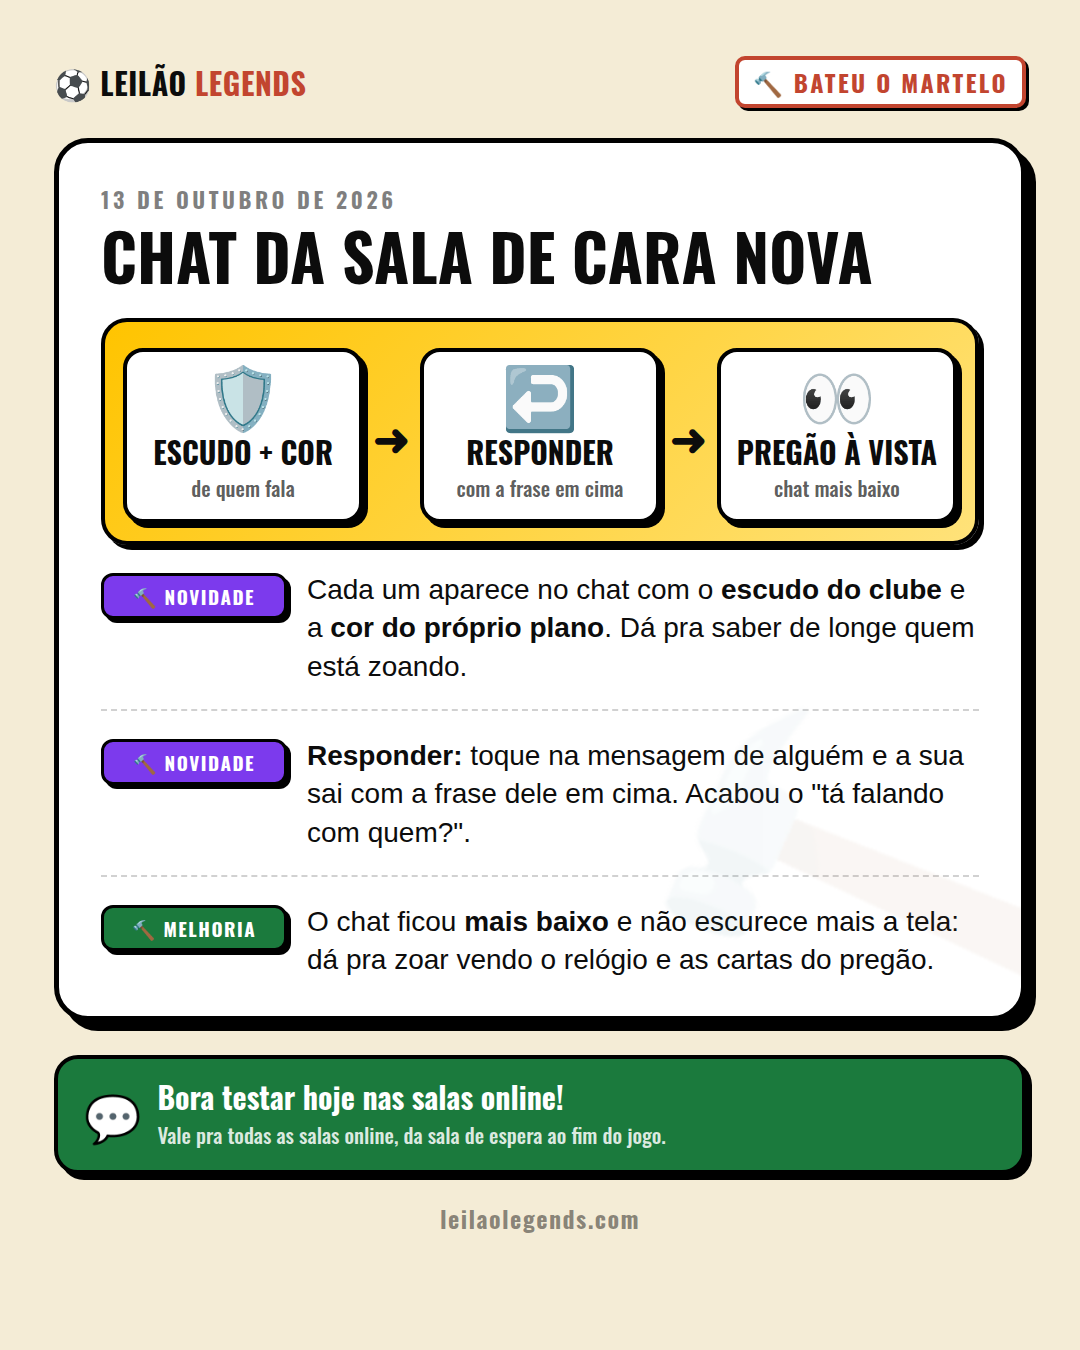
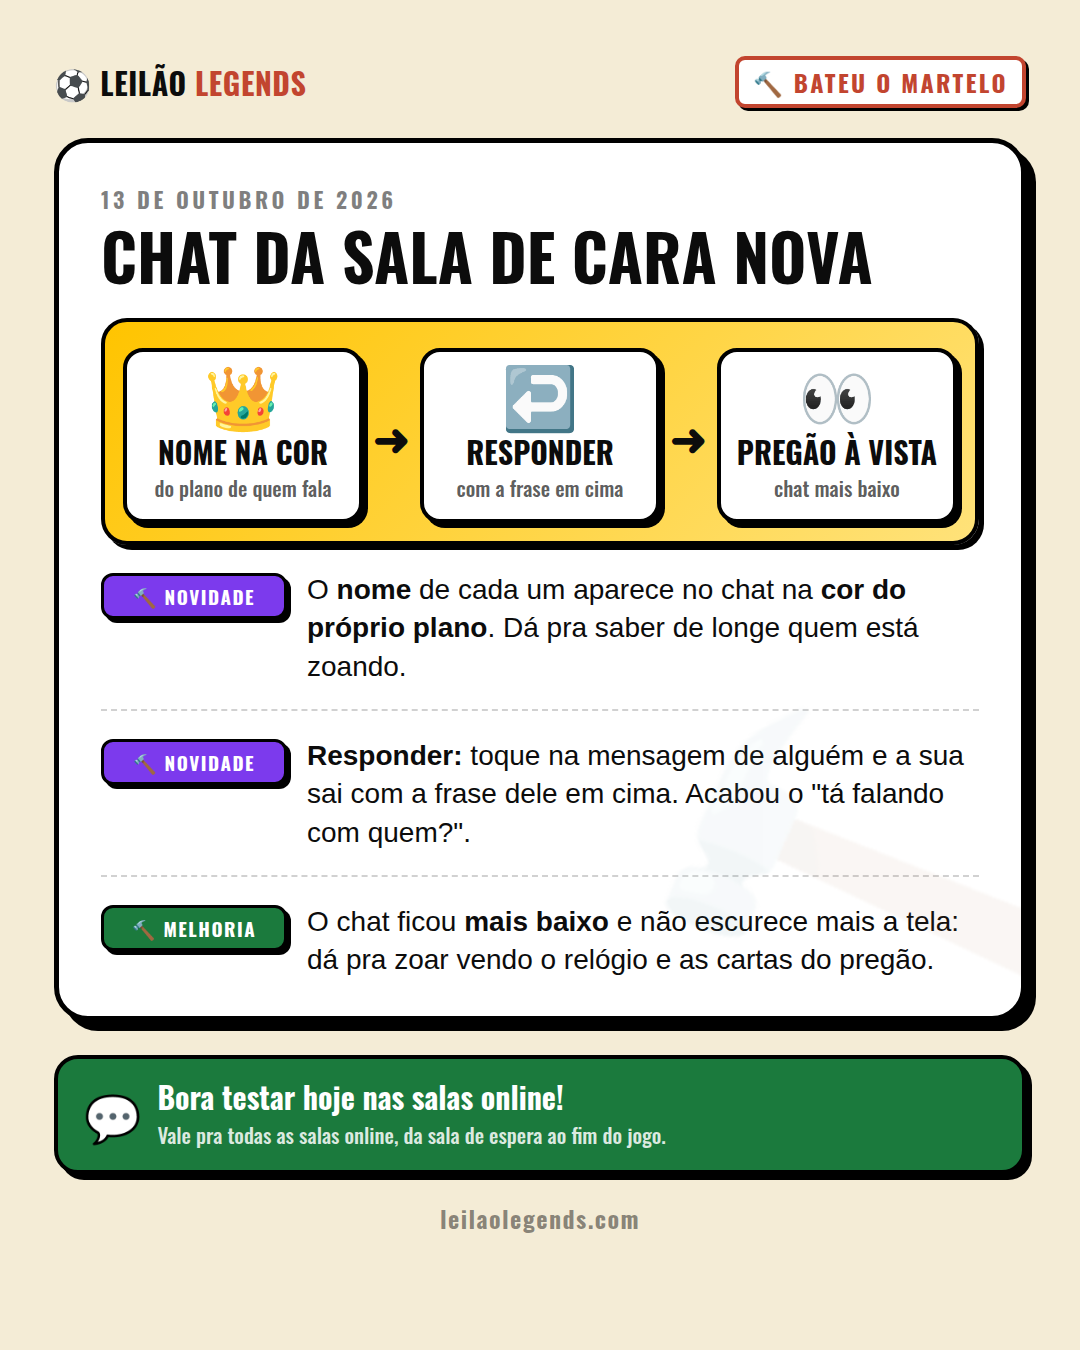
Chat da sala: tira o escudo, fica só o nome na cor do plano (pedido do Diego, menos informação)
Claude-Session: https://claude.ai/code/session_018Ap1zPCMVL9XeZJN3u93ZA

Changed region(s): [[0.275, 0.4044, 0.8861, 0.4978], [0.1222, 0.2489, 0.3056, 0.3733]]

diff --git a/src/escalacao/novidades.ts b/src/escalacao/novidades.ts
@@ -34,7 +34,7 @@ import { getLang } from './lang'
 
 // ⚠ SEMPRE em ordem: a mais NOVA em cima.
 export const NOVIDADES: Novidade[] = [
-  { data: '2026-10-13', emoji: '💬', titulo: 'Chat da sala de cara nova', texto: 'Cada um aparece com o escudo do clube e a cor do próprio plano. Toque na mensagem de alguém pra responder com a frase dele em cima. E o chat ficou mais baixo: dá pra zoar vendo o pregão (salas online).', en: { titulo: 'Room chat got a new look', texto: 'Everyone shows up with their club crest and their own plan color. Tap someone’s message to reply with it quoted on top. And the chat sits lower now: you can banter while watching the auction (online rooms).' } },
+  { data: '2026-10-13', emoji: '💬', titulo: 'Chat da sala de cara nova', texto: 'O nome de cada um aparece na cor do próprio plano. Toque na mensagem de alguém pra responder com a frase dele em cima. E o chat ficou mais baixo: dá pra zoar vendo o pregão (salas online).', en: { titulo: 'Room chat got a new look', texto: 'Everyone’s name shows in their own plan color. Tap someone’s message to reply with it quoted on top. And the chat sits lower now: you can banter while watching the auction (online rooms).' } },
   { data: '2026-10-13', emoji: '🏢', titulo: 'A SAF agora vira seu 2º clube', texto: 'Compra a SAF e, depois de 10 temporadas, assume o comando: ela vira o seu 2º clube jogável, com os títulos que já tinha (só pra apoiador). Dá pra emprestar e pegar jogador entre os seus dois clubes na virada da temporada, e cada clube paga metade do salário. Vender clube é risco: lucro máximo de 500 (Modo Carreira).', en: { titulo: 'Your SAF now becomes your 2nd club', texto: 'Buy the SAF and, after 10 seasons, take command: it becomes your playable 2nd club, keeping its titles (supporters only). You can loan players between your two clubs at the season turn, with each club paying half the wage. Selling a club is a risk: profit is capped at 500 (Career Mode).' } },
   { data: '2026-10-13', emoji: '💰', titulo: 'Rivais com dinheiro de verdade', texto: 'Na carreira, os clubes rivais agora ganham TV e bilheteria pela divisão e pagam salário, igual você. Quem guarda dinheiro chega forte no leilão e briga pelas lendas; quem gasta demais chega liso. Na Central tem o caixa dos rivais (Modo Carreira).', en: { titulo: 'Rivals with real money', texto: 'In Career Mode, rival clubs now earn TV and gate money by division and pay wages, just like you. Whoever saves arrives strong at the auction and fights for the legends; whoever overspends arrives broke. The Central shows the rivals’ bank (Career Mode).' } },
   { data: '2026-10-11', emoji: '🏟', titulo: 'Copas regionais nas salas', texto: 'Novo "Depois da liga": Liga + Rio × São Paulo, Liga + Sul × Minas-Paraná e Liga + Copa do Nordeste. Os 16 primeiros da liga escolhem um clube da região na ordem da tabela (45s cada) e convocam os 11 (90s). Dois lados de 8: cada clube enfrenta os do outro lado, depois mata-mata cruzado. Clubes como Bangu, Guarani, Juventude e Moto Club trazem cartas que só existem nessas copas (salas online).', en: { titulo: 'Regional cups in the rooms', texto: 'New "After the league" options: League + Rio × São Paulo, League + South × Minas-Paraná and League + Northeast Cup. The top 16 of the league pick a club from the region in table order (45s each) and call up their 11 (90s). Two sides of 8: each club faces the other side, then crossed knockouts. Clubs like Bangu, Guarani, Juventude and Moto Club bring cards that only exist in these cups (online rooms).' } },

diff --git a/src/escalacao/screens.tsx b/src/escalacao/screens.tsx
@@ -64,7 +64,7 @@ import { novidadesDaVez, novTitulo, novTexto } from './novidades'
 import { AvisoDaVez } from './aviso'
 import { MUDANCAS_JOGADORES } from './novidades-jogadores'
 import { useLang, useT, getLang, ordinal, tr } from './lang'
-import { ChatAvatar, ChatCracha, ChatCita, ChatRespondendo, citacao, reValido, type ChatRe } from './chat-sala'
+import { ChatCracha, ChatCita, ChatRespondendo, citacao, reValido, type ChatRe } from './chat-sala'
 import { POS_LABELS, basketClockLabel } from './sportcfg'
 import { meuManto, mantoStripes, meuMantoAngle, meuMantoC3, meuMantoC3Buffer, useMeuSocio, nomeLivre, NOME_MSG } from './manto'
 import { MASCOTES, FestaoMascote } from './mascotes'
@@ -713,10 +713,9 @@ export function ChatWidget() {
                       // antiga guardada no aparelho, ou sala sem dupla).
                       const mine = m.uid ? m.uid === state.youUid : m.from === state.youIdx
                       const re = reValido(m.re)
-                      // 1) escudo + cor do plano de quem fala · 3) toque na dos outros = responder
+                      // 1) nome na cor do plano de quem fala (sem escudo: Diego 13/10 "pra não ficar muita informação") · 3) toque na dos outros = responder
                       return (
-                        <div key={m.id} style={{ display: 'flex', gap: 7, alignItems: 'flex-end', flexDirection: mine ? 'row-reverse' : 'row' }}>
-                          {!mine && <ChatAvatar name={m.name} />}
+                        <div key={m.id} style={{ display: 'flex', gap: 7, alignItems: 'flex-start', flexDirection: mine ? 'row-reverse' : 'row' }}>
                           <div onClick={mine ? undefined : () => setResp(citacao(m.name, m.text))}
                             style={{ background: mine ? '#FFF3D6' : '#fff', border: '2px solid #000', borderRadius: 11, padding: '4px 9px', boxShadow: '2px 2px 0 0 #000', maxWidth: '78%', cursor: mine ? 'default' : 'pointer' }}>
                             {mine ? <span style={{ ...OSWALD, fontWeight: 900, fontSize: 10, display: 'block', lineHeight: 1.2 }}>{tr('Você', 'You')}</span> : <ChatCracha name={m.name} />}

diff --git a/src/escalacao/chat-sala.tsx b/src/escalacao/chat-sala.tsx
@@ -1,7 +1,8 @@
 // 💬 PEÇAS DO CHAT DA SALA (Diego 13/10, mockup `scripts/mockups/chat-sala.png`: "faz 1, 3 e 4").
 // Usadas pelos DOIS chats — o do jogo (`ChatWidget`, screens.tsx) e o da sala de espera
 // (`LobbyChatDock`, lobby.tsx) — pra eles não terem regra própria cada um.
-//   1) quem fala aparece com o ESCUDO do clube + a cor do PRÓPRIO plano (grátis = bege). O plano
+//   1) o NOME de quem fala vem na cor do PRÓPRIO plano (grátis = bege). SEM escudo: o Diego tirou
+//      no mesmo dia ("deixa apenas o nome dourado… pra não ficar muita informação"). O plano
 //      é lido pelo selo que já viaja no nome (👑 ⭐ 💎 e o invisível do verde) — o mesmo jeito que
 //      a lista de jogadores da sala usa; nada é consultado no banco.
 //   3) RESPONDER: a mensagem leva `re` (nome + começo da frase de quem foi respondido).
@@ -9,7 +10,6 @@
 //   4) a gaveta não escurece nem bloqueia o jogo: dá pra continuar vendo e tocando no pregão.
 // ⚠ Nada aqui manda mensagem a mais pelo canal (sem "digitando") — ver a conta do realtime.
 import { APOIO_PERKS, type ApoioPerk, stripEmoji } from './apoio'
-import { Escudo } from './escudos'
 import { tr } from './lang'
 
 export type ChatRe = { name: string; text: string }
@@ -31,15 +31,6 @@ export function citacao(name: string, text: string): ChatRe {
 export function reValido(re: unknown): ChatRe | undefined {
   const r = re as ChatRe | undefined
   return r && typeof r.name === 'string' && typeof r.text === 'string' ? { name: r.name.slice(0, 40), text: r.text.slice(0, 80) } : undefined
-}
-
-export function ChatAvatar({ name }: { name: string }) {
-  const p = perkDoNome(name)
-  return (
-    <span style={{ width: 30, height: 30, borderRadius: 9, border: '2px solid #000', background: p.grad, display: 'grid', placeItems: 'center', flexShrink: 0, boxShadow: '2px 2px 0 0 #000' }}>
-      <Escudo nome={nomeSemSelo(name)} size={22} />
-    </span>
-  )
 }
 
 export function ChatCracha({ name }: { name: string }) {

diff --git a/src/escalacao/lobby.tsx b/src/escalacao/lobby.tsx
@@ -32,7 +32,7 @@ import { EscolhaSelecao, PainelDaCopa, CopaDaSala, FaixaCopa, EstanteDaCopa, gra
 import type { EscState, FormationKey, DuplaSeat, DuplaCat } from './types'
 import { DUPLA_CATS, DUPLA_CAT_LABEL, DUPLA_CAT_ICON, duplaToggleCat } from './types'
 import { tr, getLang } from './lang' // 🌐 BR/EN do futebol (botão no header)
-import { ChatAvatar, ChatCracha, ChatCita, ChatRespondendo, citacao, reValido, type ChatRe } from './chat-sala'
+import { ChatCracha, ChatCita, ChatRespondendo, citacao, reValido, type ChatRe } from './chat-sala'
 import { getSport, useSport } from './sport' // 🏀 qual esporte a pessoa está jogando (separa as salas)
 import { COMUNIDADE_LINK } from './comunidade' // 📲 comunidade do WhatsApp (11/10)
 
@@ -143,8 +143,7 @@ function LobbyChatDock({ open, setOpen, unread, msgs, myUid, listRef, onSend }: 
                   const mine = !!myUid && m.uid === myUid
                   const re = reValido(m.re)
                   return (
-                    <div key={m.id} style={{ display: 'flex', gap: 7, alignItems: 'flex-end', flexDirection: mine ? 'row-reverse' : 'row' }}>
-                      {!mine && <ChatAvatar name={m.name} />}
+                    <div key={m.id} style={{ display: 'flex', gap: 7, alignItems: 'flex-start', flexDirection: mine ? 'row-reverse' : 'row' }}>
                       <div onClick={mine ? undefined : () => setResp(citacao(m.name, m.text))}
                         style={{ background: mine ? '#FFF3D6' : '#fff', border: '2px solid #000', borderRadius: 11, padding: '4px 9px', boxShadow: '2px 2px 0 0 #000', maxWidth: '78%', cursor: mine ? 'default' : 'pointer' }}>
                         {mine ? <span style={{ ...OSWALD, fontWeight: 900, fontSize: 10, display: 'block', lineHeight: 1.2 }}>{tr('Você', 'You')}</span> : <ChatCracha name={m.name} />}

diff --git a/docs/pendencias.md b/docs/pendencias.md
@@ -1,4 +1,4 @@
-## 💬 Chat da sala melhorado (13/10) — ✅ NO AR o 1, 3 e 4 (Diego: "faz 1, 3 e 4 somente"). 🚫 O 2 (zoeira rápida em botões) ele NÃO quis — não repropor.
+## 💬 Chat da sala melhorado (13/10) — ✅ NO AR o 1, 3 e 4 (Diego: "faz 1, 3 e 4 somente"). 🚫 O 2 (zoeira rápida em botões) ele NÃO quis — não repropor. 🔁 E no mesmo dia tirou o ESCUDO do 1: *"deixa apenas o nome dourado… pra não ficar muita informação"* — só o nome na cor do plano.
 Peças em `src/escalacao/chat-sala.tsx` (usadas pelos dois chats). Responder = campo `re` na mensagem (versão velha ignora). Aviso: `scripts/avisos/2026-10-13-chat-sala.json` → `scripts/posts/aviso-chat-sala.png`.
 `scripts/mockup-chat-sala.mjs` → `scripts/mockups/chat-sala.png`. 4 ideias: (1) escudo do clube + cor do PRÓPRIO tier no nome · (2) zoeira rápida (botões prontos, espera de 3s) · (3) responder com citação · (4) gaveta mais baixa sem escurecer o pregão. Sem "digitando" (não pode gastar realtime a mais). Mexe só no `ChatWidget` (screens.tsx) e no `LobbyChatDock` (lobby.tsx).
 
